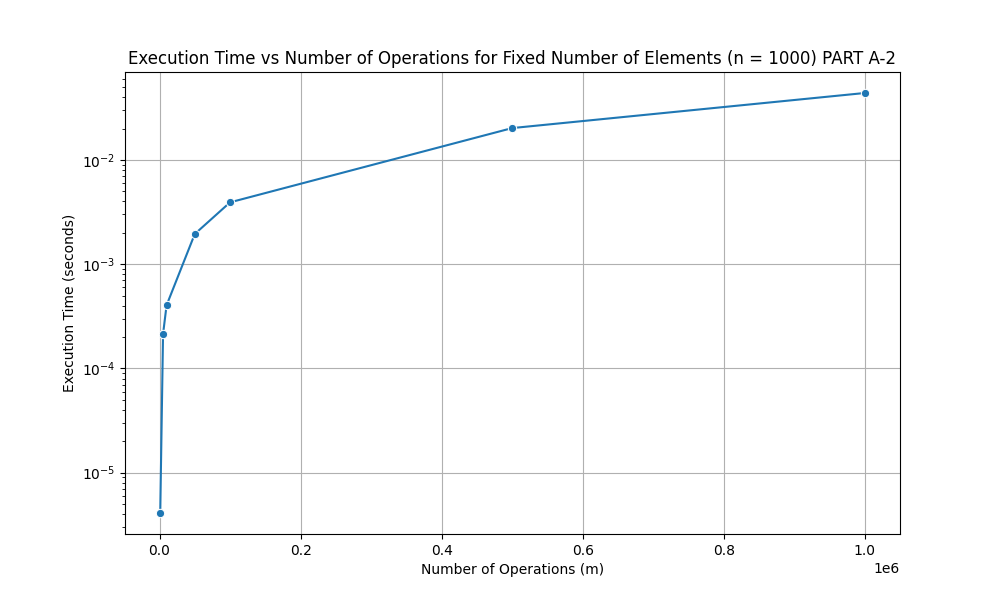
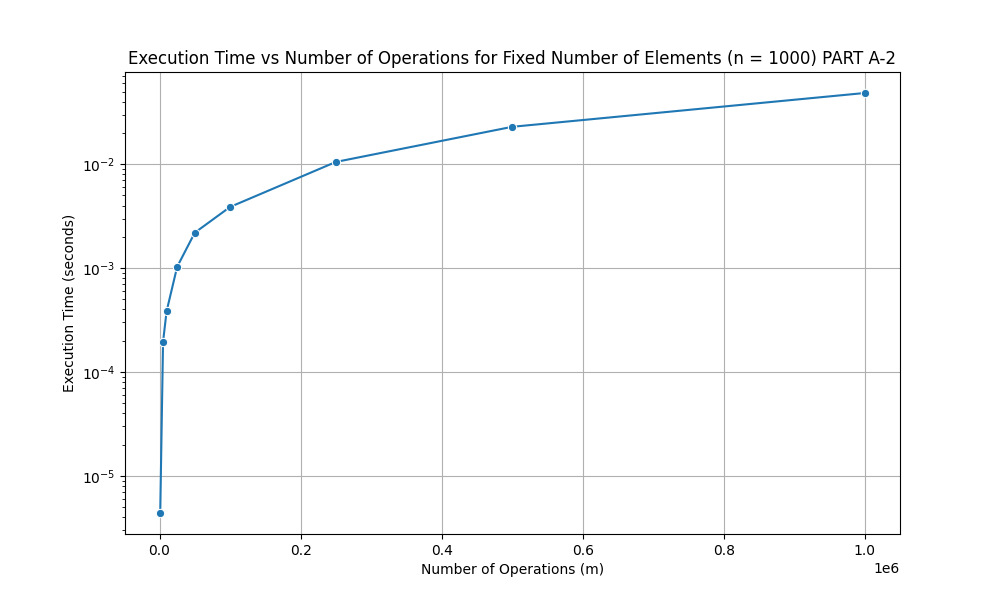
part B

diff --git a/Assignment 3/part_B.cpp b/Assignment 3/part_B.cpp
@@ -82,77 +82,4 @@ public:
         std::cout << std::endl;
     }
 
-    // Check consistency of the Disjoint Set structure
-    bool check_consistency(int n) {
-        for (int i = 0; i < n; ++i) {
-            if (FIND_SET(i) != FIND_SET(FIND_SET(i))) {
-                return false; // Inconsistent structure
-            }
-        }
-        return true; // Consistent structure
-    }
 };
-
-// Function to run & measure the execution time for a sequence of n MAKE-SET, UNION, and FIND-SET operations
-void run_experiment(int n, int m, ofstream &file) {
-    DisjointSet ds(n);
-    auto start = chrono::high_resolution_clock::now();
-
-    // Perform n MAKE-SET operations
-    for (int i = 0; i < n; i++) {
-        ds.MAKE_SET(i);
-    }
-
-    // Execute remaining (m - n) operations
-    for (int i = n; i < m; i++) {
-        int op_type = rand() % 2; // Randomly choose between UNION (0) and FIND_SET (1)
-        int x = rand() % n; // Random element for UNION or FIND_SET
-        int y = (op_type == 0) ? (rand() % n) : 0; // Only choose y if operation is UNION
-
-        if (op_type == 0) { // UNION
-            ds.UNION(x, y);
-        } else { // FIND_SET
-            ds.FIND_SET(x);
-        }
-    }
-
-    auto end = chrono::high_resolution_clock::now();
-    chrono::duration<double> elapsed_time = end - start;
-
-    // Measure the execution time for PRINT-SET
-    start = chrono::high_resolution_clock::now();
-    ds.PRINT_SET(rand() % n); // Print the set of a random element
-    end = chrono::high_resolution_clock::now();
-    chrono::duration<double> print_elapsed_time = end - start;
-
-    // Check consistency after operations
-    bool is_consistent = ds.check_consistency(n);
-
-    // Save results to file
-    if (is_consistent) {
-        file << n << "," << m << "," << elapsed_time.count() << "," << print_elapsed_time.count() << ",Consistent" << endl;
-    } else {
-        file << n << "," << m << "," << elapsed_time.count() << "," << print_elapsed_time.count() << ",Inconsistent" << endl;
-    }
-}
-
-int main() {
-    int num_elements[] = {1000, 5000, 10000, 50000, 100000, 500000, 1000000};
-    int num_operations[] = {1000, 5000, 10000, 50000, 100000, 500000, 1000000};
-
-    ofstream file("part_B.csv");
-    file << "Number of elements,Number of operations,Execution time,PRINT-SET time,Consistency Check" << endl;
-
-    // Run the experiment for all combinations of num_elements and num_operations
-    for (int n : num_elements) {
-        for (int m : num_operations) {
-            if (n <= m) { // Ensure n is less than or equal to m
-                run_experiment(n, m, file);
-            }
-        }
-    }
-
-    file.close();
-    cout << "Experiment completed. Results saved to part_B.csv" << endl;
-    return 0;
-}

diff --git a/Assignment 3/part_A_2.cpp b/Assignment 3/part_A_2.cpp
@@ -110,7 +110,7 @@ void run_experiment(int n, int m, ofstream &file) {
 int main() {
     // int num_elements[] = {1000, 5000, 10000, 50000, 100000, 500000, 1000000};
     int num_elements[] = {1000};
-    int num_operations[] = {1000, 5000, 10000, 50000, 100000, 500000, 1000000};
+    int num_operations[] = {1000, 5000, 10000, 25000, 50000, 100000, 250000, 500000, 1000000};
 
     ofstream file("part_A_2.csv");
     file << "Number of elements,Number of operations,Execution time,Consistency Check" << endl;

diff --git a/Assignment 3/plotA.py b/Assignment 3/plotA.py
@@ -3,8 +3,6 @@ import matplotlib.pyplot as plt
 import seaborn as sns
 
 # Part A-1
-
-# Load your CSV results
 dataA1 = pd.read_csv('Assignment 3/part_A_1.csv')
 print(dataA1)
 
